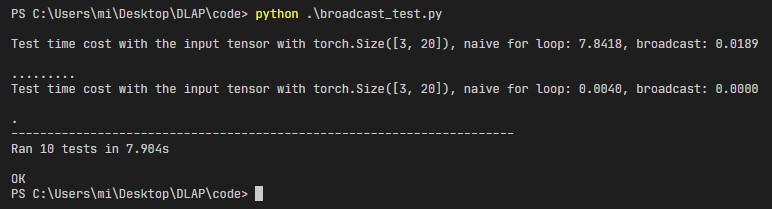
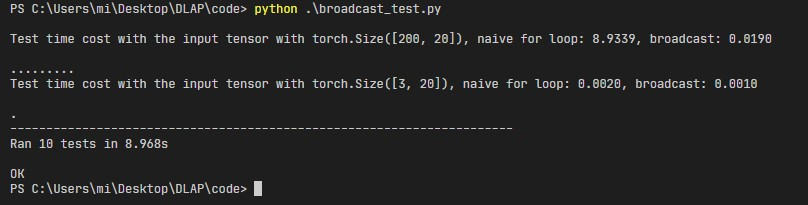
update

diff --git a/docs/assets/broadcast/broadcast_test.py b/docs/assets/broadcast/broadcast_test.py
@@ -81,7 +81,7 @@ class TestResult(unittest.TestCase):
 
     def test_big_time(self):
         naive_t, broad_t = self.time(self.big_input)
-        print("\nTest time cost with the input tensor with %s, naive for loop: %.4f, broadcast: %.4f\n" % (self.input.size(), naive_t, broad_t))
+        print("\nTest time cost with the input tensor with %s, naive for loop: %.4f, broadcast: %.4f\n" % (self.big_input.size(), naive_t, broad_t))
         self.assertLess(broad_t, naive_t)
 
 
